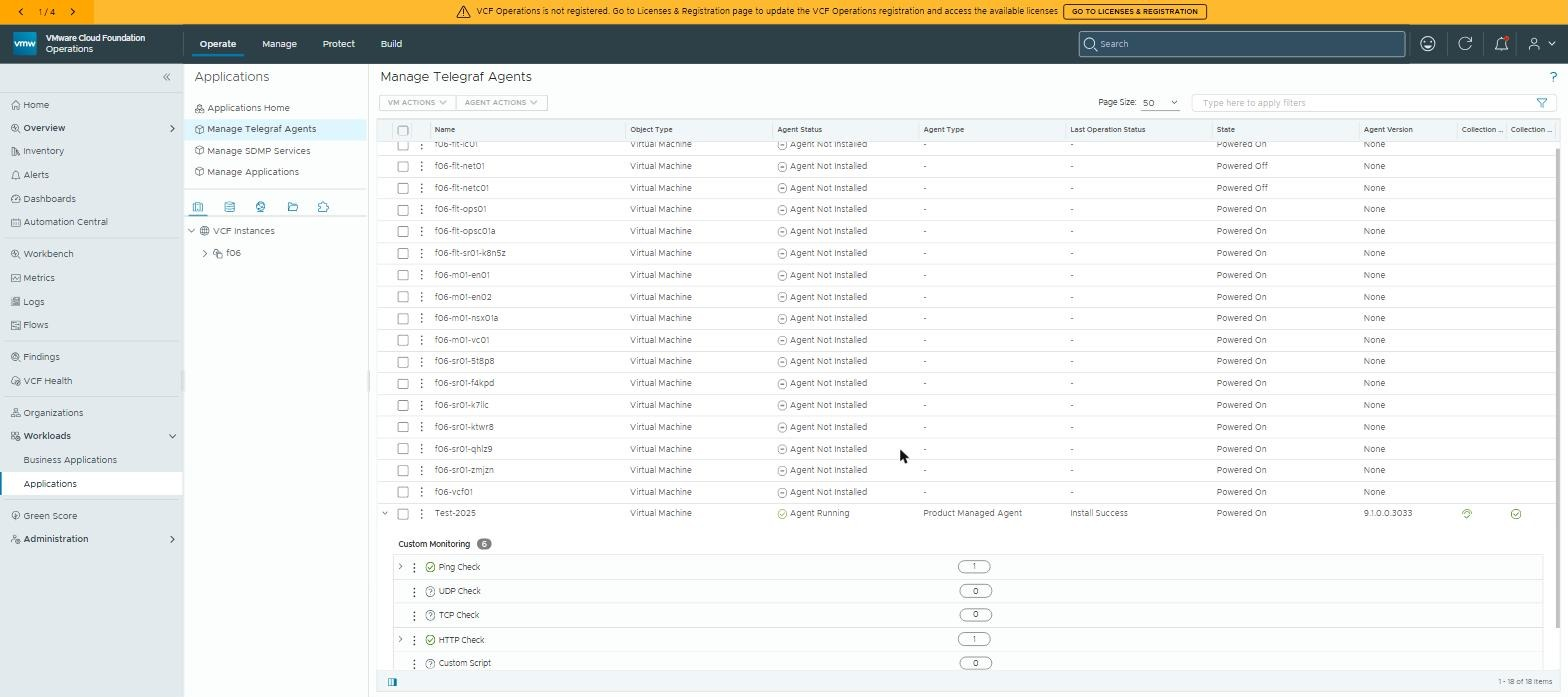
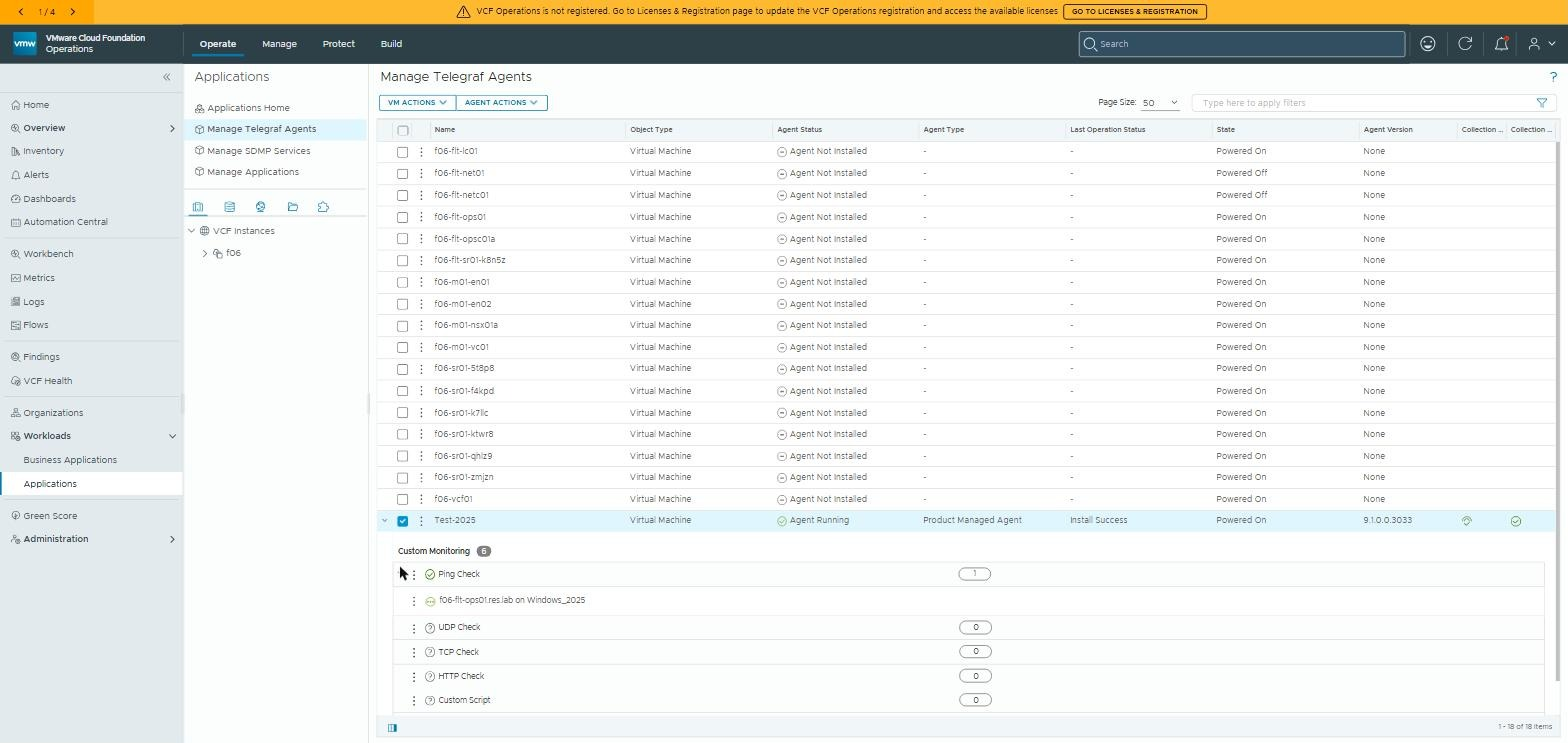
Telegraf W2025: agent-list still with the Ping Check receiving data; caption and cover to match

diff --git a/content/posts/telegraf-windows-2025.md b/content/posts/telegraf-windows-2025.md
@@ -64,8 +64,8 @@ VM, *Agent Actions → Install*, supply guest credentials, wait. On the
 registered as a **Product Managed Agent**, version 9.1.0.0.3033, with
 `Last Operation Status` reading `Install Success`.
 
-![Manage Telegraf Agents: Test-2025 - Agent Running, Product Managed Agent, Install Success, version 9.1.0.0.3033, both collection ticks green, with a Ping Check and an HTTP Check under Custom Monitoring](/images/ui/o3-ops-manage-telegraf-agents-w2025.jpg)
-*The agent list with the Windows Server 2025 row expanded. Agent Running, product-managed, Install Success, both collection ticks green — and under Custom Monitoring a Ping Check and an HTTP Check configured from the same screen, no config file touched.*
+![Manage Telegraf Agents: Test-2025 - Agent Running, Product Managed Agent, Install Success, version 9.1.0.0.3033, both collection ticks green, with a Ping Check receiving data under Custom Monitoring](/images/ui/o3-ops-manage-telegraf-agents-w2025.jpg)
+*The agent list with the Windows Server 2025 row expanded. Agent Running, product-managed, Install Success, both collection ticks green — and under Custom Monitoring a Ping Check, configured from the same screen and already receiving data, no config file touched.*
 
 ![The Windows OS on Windows 2025 object: one object, Normal, no alerts, with Custom Script, Ping Check and Services children and live CPU/memory properties](/images/ui/o9-ops-w2025-windows-os-summary.jpg)
 *The object the agent created, as Ops sees it: green, no alerts, CPU and memory properties populated. This is the picture that matters — not the install dialog.*
@@ -87,9 +87,10 @@ build, and the WMIC prerequisite — in whatever you use for a CMDB. When the
 support matrix catches up you want to know whether you're on the version
 they tested.
 
-**Give it a check that will go flat first.** The Ping and HTTP checks
-above are configured from the agent row in Ops (*Custom Monitoring*), and
-a *Custom Script* entry on the same screen can run anything on the box.
+**Give it a check that will go flat first.** The Ping Check above is
+configured from the agent row in Ops (*Custom Monitoring*); HTTP, TCP and
+UDP checks live there too, and a *Custom Script* entry on the same screen
+can run anything on the box.
 Point one at something trivially OS-dependent and alert on its *absence*:
 if a Windows update changes an API under the agent, that line stops before
 anything else does.
